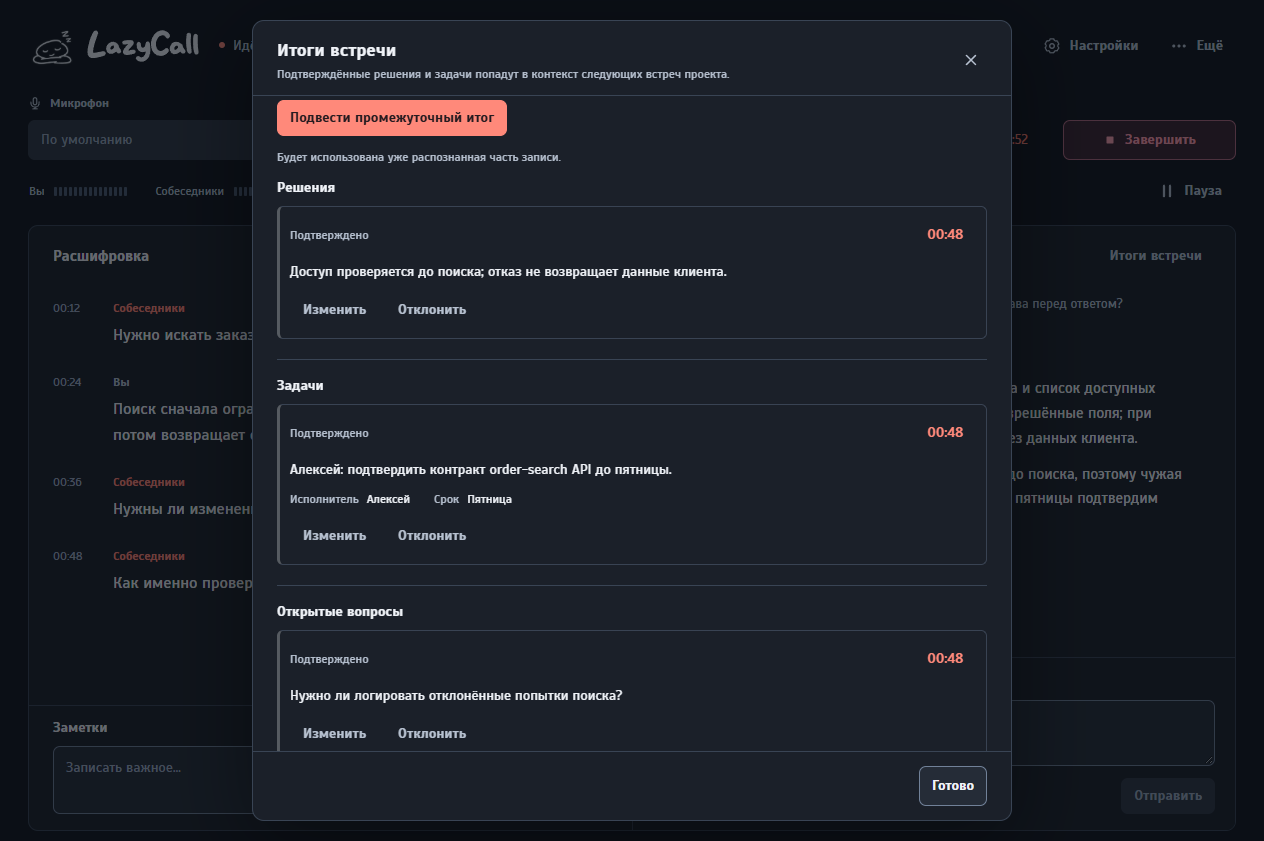
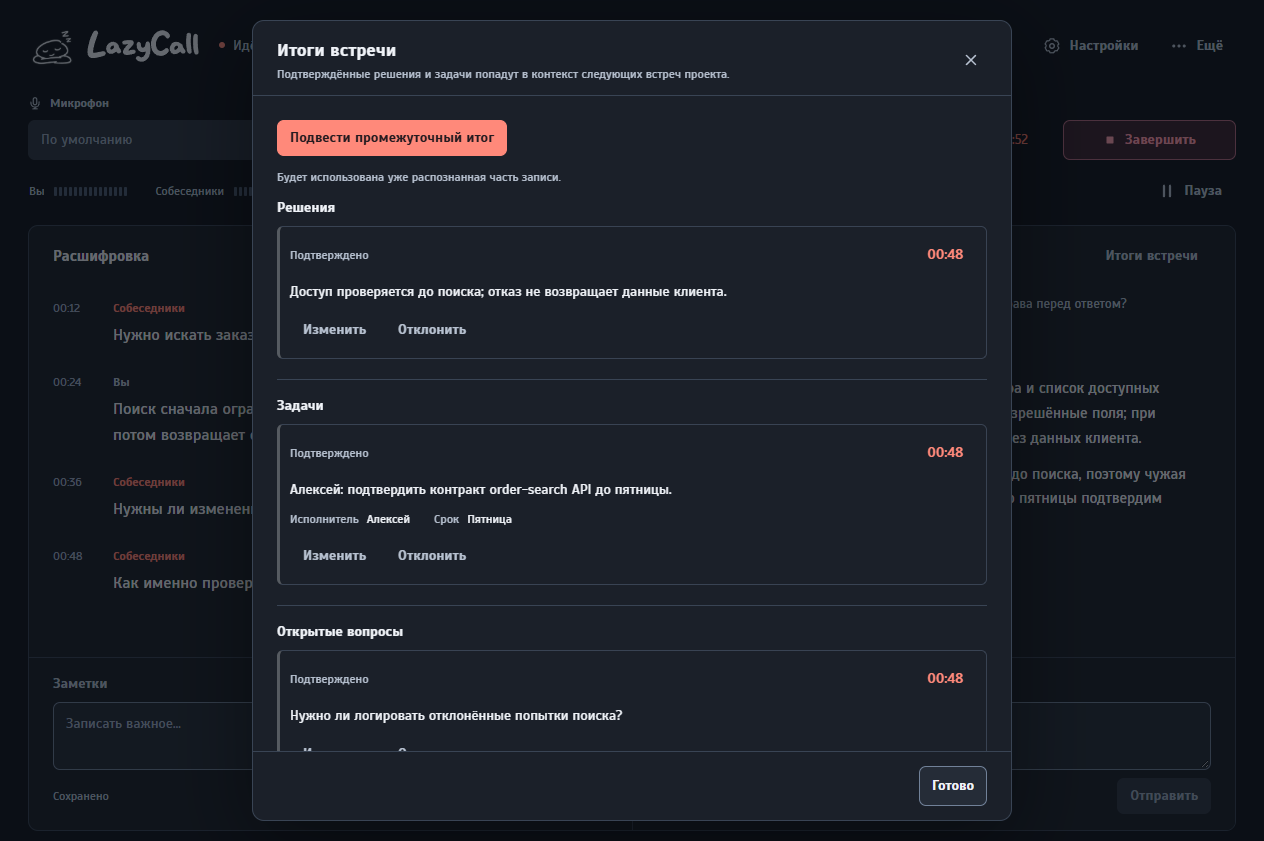
fix: align workspace forms and dialog scrolling for 0.3.6

diff --git a/src/renderer/Assistant.tsx b/src/renderer/Assistant.tsx
@@ -59,6 +59,8 @@ export function Assistant({ status, messages, hasSession, hasTranscript, phase, 
   };
   return <section className="assistant-pane" aria-label={t("assistant")}>
     <div className="pane-header"><h2>{t("assistant")}</h2>{phase !== "done" && <Button size="compact" variant="quiet" onClick={onOpenResults} title={t("Решения, задачи и открытые вопросы")}>{t("meetingResults")}</Button>}</div>
+    <div className="assistant-history">
+      {!ready && messages.length > 0 && <p className="composer-status" role="status">{t("Помощник не подключён. ")}<Button variant="text" size="compact" loading={connecting} disabled={status.state === "connecting"} onClick={() => void connect()}>{t("signInChatGPT")}</Button></p>}
     {ready && phase !== "done" && <div className="assistant-toolbar"><Button variant="primary" size="compact" disabled={!replyTarget || busy} onClick={() => replyTarget && void ask("answer", "Предложи ответ на выбранную реплику собеседника.", replyTarget.id)} title={replyTarget ? t("Короткий ответ на последнюю реплику собеседника") : t("Дождитесь реплики собеседника")}>{t("suggestAnswer")}</Button>{replyTarget && <div className="assistant-reply-target" title={replyTarget.text}><time>{timestamp(replyTarget.startMs)}</time><span className="assistant-reply-excerpt">{replyTarget.text}</span></div>}</div>}
     <div className="assistant-messages" ref={area} onScroll={onScroll} aria-live="polite" aria-relevant="additions text"><div ref={body}>
       {messages.length === 0 && <div className="assistant-empty">
@@ -77,6 +79,7 @@ export function Assistant({ status, messages, hasSession, hasTranscript, phase, 
       </article>)}</div>
     </div>
     {awayFromBottom && messages.length > 0 && <div className="assistant-follow"><Button variant="text" size="compact" icon="down" onClick={followLatest}>{t("К последнему ответу")}</Button></div>}
+    </div>
     <form className="assistant-composer" onSubmit={event => { event.preventDefault(); void ask(webSearch ? "research" : "answer"); }}>
       <label className="composer-label" htmlFor="assistant-question">{phase === "done" ? t("Вопрос по записи") : t("askQuestion")}</label><TextArea id="assistant-question" placeholder={phase === "done" ? t("Например: что уточнить по итогам?") : t("Например: что уточнить про сроки?")} value={prompt} maxLength={12000} rows={2} disabled={!ready || busy} onChange={event => setPrompt(event.target.value)} onKeyDown={event => {
         if (event.key === "Enter" && !event.shiftKey && !event.repeat && !event.nativeEvent.isComposing && (enterToSend || event.ctrlKey || event.metaKey)) { event.preventDefault(); void ask(webSearch ? "research" : "answer"); }
@@ -84,7 +87,6 @@ export function Assistant({ status, messages, hasSession, hasTranscript, phase, 
       <div className="composer-actions"><Checkbox checked={webSearch} disabled={busy} onChange={event => setWebSearch(event.target.checked)}>{t("searchWeb")}</Checkbox>
         {busy ? <Button size="compact" icon="stop" disabled={!cancelId} onClick={() => void window.callme.agentCancel(cancelId).catch(e => onError(String(e)))}>{t("stop")}</Button> : <Button type="submit" variant="primary" size="compact" disabled={!ready || !prompt.trim()} title={enterToSend ? "Enter" : "Ctrl+Enter"}>{phase === "done" ? t("Спросить по записи") : t("send")}</Button>}
       </div>
-      {!ready && messages.length > 0 && <p className="composer-status" role="status">{t("Помощник не подключён. ")}<Button variant="text" size="compact" loading={connecting} disabled={status.state === "connecting"} onClick={() => void connect()}>{t("signInChatGPT")}</Button></p>}
     </form>
   </section>;
 }

diff --git a/src/renderer/App.tsx b/src/renderer/App.tsx
@@ -348,6 +348,7 @@ export function App() {
     <main className="workspace">
       <section className="conversation" aria-label={t("Расшифровка встречи")}>
         <div className="pane-header"><h2>{t("Расшифровка")}</h2><Materials source={source} preview={preview} frameAt={frameAt} phase={phase} epoch={sessionEpoch} project={workspace.project} onSnapshot={() => { if (!capture.current?.snapshot()) report(t("Кадр пока недоступен. Повторите через секунду."), "info"); }} onChooseWindow={phase === "idle" ? () => window.setTimeout(() => document.getElementById("meeting-window")?.focus(), 0) : undefined} /></div>
+        <div className="conversation-history">
         <div className="transcript" ref={transcript} onScroll={onTranscriptScroll}>
           <div ref={transcriptBody}>
           {lines.length === 0 ? <div className="empty-transcript">
@@ -362,7 +363,8 @@ export function App() {
           </div>
         </div>
         {awayFromBottom && lines.length > 0 && <div className="conversation-footer"><Button variant="text" icon="down" onClick={followLatest}>{t("К последней реплике")}</Button></div>}
-        <section className="quick-notes" aria-label={t("Заметки встречи")}><div className="quick-notes-heading"><h2>{t("Заметки")}</h2><span className={"secondary-label note-state " + noteState}>{noteLabel}</span></div><TextArea aria-label={t("Заметки")} placeholder={t("Записать важное…")} rows={2} value={note} onChange={event => setNote(event.target.value)} maxLength={100000} spellCheck /></section>
+        </div>
+        <section className="quick-notes" aria-label={t("Заметки встречи")}><div className="quick-notes-heading"><h2>{t("Заметки")}</h2></div><TextArea aria-label={t("Заметки")} placeholder={t("Записать важное…")} rows={2} value={note} onChange={event => setNote(event.target.value)} maxLength={100000} spellCheck /><div className="quick-notes-actions"><span className={"secondary-label note-state " + noteState}>{noteLabel}</span></div></section>
       </section>
 
       <Assistant status={agent} messages={assistantMessages} hasSession={hasSession} hasTranscript={lines.length > 0} phase={phase} enterToSend={preferences.enterToSend} replyTarget={[...lines].reverse().find(line => line.source === "remote")} sessionEpoch={sessionEpoch} note={note} onPrepared={id => { sessionId.current = id; noteSaved.current = note; setHasSession(true); }} onAddNote={text => { const combined = note.trim() ? note.trimEnd() + "\n\n" + text : text; if (combined.length > 100000) { report("В заметках недостаточно места для этого ответа."); return; } setNote(combined); report("Добавлено в заметки.", "info"); }} onError={report} onOpenResults={() => setResultsOpen(old => old + 1)} />

diff --git a/src/renderer/workspace-layout.css b/src/renderer/workspace-layout.css
@@ -1,0 +1,82 @@
+/* Both panes share content and composer tracks; text and controls set their size. */
+.workspace {
+  --workspace-inset: 24px;
+  --workspace-field-height: 68px;
+  grid-template-rows: auto minmax(0, 1fr) auto minmax(var(--workspace-field-height), auto) auto;
+}
+.workspace > .conversation,
+.workspace > .assistant-pane {
+  display: grid;
+  grid-row: 1 / -1;
+  grid-template-columns: minmax(0, 1fr);
+  grid-template-rows: subgrid;
+}
+.workspace > .conversation { grid-column: 1; }
+.workspace > .assistant-pane { grid-column: 2; }
+.workspace .pane-header { grid-row: 1; padding-inline: var(--workspace-inset); }
+.conversation-history,
+.assistant-history {
+  grid-row: 2;
+  display: flex;
+  flex-direction: column;
+  min-width: 0;
+  min-height: 0;
+  overflow: hidden;
+}
+.workspace .transcript,
+.workspace .assistant-messages,
+.workspace .assistant-toolbar,
+.workspace .conversation-footer { padding-inline: var(--workspace-inset); }
+.workspace .quick-notes,
+.workspace .assistant-composer {
+  grid-row: 3 / -1;
+  display: grid;
+  grid-template-columns: minmax(0, 1fr);
+  grid-template-rows: subgrid;
+  row-gap: 8px;
+  padding: 16px var(--workspace-inset);
+  margin: 0;
+  min-width: 0;
+}
+.workspace .quick-notes-heading,
+.workspace .composer-label {
+  grid-row: 1;
+  margin: 0;
+  align-self: start;
+}
+.workspace .quick-notes-heading h2,
+.workspace .composer-label {
+  color: var(--secondary);
+  font-size: 14px;
+  line-height: 20px;
+  font-weight: var(--weight-medium);
+}
+.workspace .quick-notes > .ui-textarea,
+.workspace .assistant-composer > .ui-textarea {
+  grid-row: 2;
+  min-height: var(--workspace-field-height);
+  height: 100%;
+  max-height: 160px;
+  margin: 0;
+}
+.workspace .quick-notes-actions,
+.workspace .composer-actions {
+  grid-row: 3;
+  display: flex;
+  align-items: center;
+  min-height: 36px;
+  margin: 0;
+}
+.workspace .composer-status { margin: 0; padding: 0 var(--workspace-inset) 12px; }
+.workspace .assistant-follow { padding-inline: var(--workspace-inset); }
+@media (max-width: 1080px) {
+  .workspace { --workspace-inset: 16px; }
+  .workspace .quick-notes,
+  .workspace .assistant-composer { padding-block: 12px; }
+}
+@media (max-height: 650px) {
+  .workspace { --workspace-field-height: 56px; }
+  .workspace .pane-header { min-height: 48px; }
+  .workspace .quick-notes,
+  .workspace .assistant-composer { padding-block: 12px; }
+}

diff --git a/src/renderer/dialog-layout.css b/src/renderer/dialog-layout.css
@@ -1,0 +1,21 @@
+/* Keep the title and actions visible while long dialog content scrolls. */
+.meetings-dialog { overflow: hidden; }
+.meetings-dialog[open] { display: flex; flex-direction: column; }
+.meetings-dialog .settings-heading,
+.projects-dialog .settings-actions { flex-shrink: 0; }
+.meetings-dialog .meetings-list {
+  min-height: 0;
+  overflow-y: auto;
+}
+.projects-body,
+.results-body,
+.meetings-dialog .meetings-list,
+.transcript-edit-body { padding: 24px; overscroll-behavior: contain; }
+.projects-body .field:first-child { margin-top: 0; }
+.results-actions { flex-wrap: wrap; gap: 8px; }
+@media (max-width: 700px) {
+  .projects-body,
+  .results-body,
+  .meetings-dialog .meetings-list,
+  .transcript-edit-body { padding: 16px; }
+}

diff --git a/src/renderer/main.tsx b/src/renderer/main.tsx
@@ -8,6 +8,8 @@ import "@fontsource/scada/latin-700.css";
 import "./style.css";
 import "./interaction.css";
 import "./theme.css";
+import "./workspace-layout.css";
+import "./dialog-layout.css";
 import { applyTheme, cachedTheme } from "./theme";
 import { I18nProvider } from "./i18n";
 applyTheme(cachedTheme());

diff --git a/src/renderer/style.css b/src/renderer/style.css
@@ -40,7 +40,7 @@ button, select { -webkit-user-select: none; user-select: none; }
 .app {
   max-width: 1680px;
   height: 100dvh;
-  min-height: 620px;
+  min-height: min(620px, 100dvh);
   margin: 0 auto;
   padding: 22px 28px 10px;
   display: flex;

diff --git a/README.ru.md b/README.ru.md
@@ -3,7 +3,7 @@
 [![CI](https://github.com/IgorMonkey/LazyCall/actions/workflows/ci.yml/badge.svg)](https://github.com/IgorMonkey/LazyCall/actions/workflows/ci.yml)
 [![Лицензия](https://img.shields.io/github/license/IgorMonkey/LazyCall?label=%D0%BB%D0%B8%D1%86%D0%B5%D0%BD%D0%B7%D0%B8%D1%8F)](LICENSE)
 ![Платформа](https://img.shields.io/badge/%D0%BF%D0%BB%D0%B0%D1%82%D1%84%D0%BE%D1%80%D0%BC%D0%B0-Windows%20x64-0078D6)
-![Релиз](https://img.shields.io/badge/%D1%80%D0%B5%D0%BB%D0%B8%D0%B7-0.3.5-ff897a)
+![Релиз](https://img.shields.io/badge/%D1%80%D0%B5%D0%BB%D0%B8%D0%B7-0.3.6-ff897a)
 
 [**Скачать для Windows**](https://github.com/IgorMonkey/LazyCall/releases/latest)
 
@@ -24,13 +24,13 @@ LazyCall помогает восстановить контекст проект
 
 > **Экспериментальный ранний релиз для Windows x64.** Приложение ещё сырое: возможны баги, задержки и неудачные подсказки. Тестируйте, приносите воспроизводимые ошибки и присылайте PR — проект открыт для участия.
 
-## Скачать `0.3.5`
+## Скачать `0.3.6`
 
-Assets лежат в [GitHub release](https://github.com/IgorMonkey/LazyCall/releases/tag/v0.3.5):
+Assets лежат в [GitHub release](https://github.com/IgorMonkey/LazyCall/releases/tag/v0.3.6):
 
-- [`LazyCall-Web-Setup-0.3.5.exe`](https://github.com/IgorMonkey/LazyCall/releases/download/v0.3.5/LazyCall-Web-Setup-0.3.5.exe) — около 820 КиБ; при установке скачивает около 918 МиБ.
-- [`LazyCall-Setup-0.3.5.exe`](https://github.com/IgorMonkey/LazyCall/releases/download/v0.3.5/LazyCall-Setup-0.3.5.exe) — около 919 МиБ; содержит офлайн-payload.
-- [`SHA256SUMS.txt`](https://github.com/IgorMonkey/LazyCall/releases/download/v0.3.5/SHA256SUMS.txt) — проверьте скачанный файл.
+- [`LazyCall-Web-Setup-0.3.6.exe`](https://github.com/IgorMonkey/LazyCall/releases/download/v0.3.6/LazyCall-Web-Setup-0.3.6.exe) — около 820 КиБ; при установке скачивает около 918 МиБ.
+- [`LazyCall-Setup-0.3.6.exe`](https://github.com/IgorMonkey/LazyCall/releases/download/v0.3.6/LazyCall-Setup-0.3.6.exe) — около 919 МиБ; содержит офлайн-payload.
+- [`SHA256SUMS.txt`](https://github.com/IgorMonkey/LazyCall/releases/download/v0.3.6/SHA256SUMS.txt) — проверьте скачанный файл.
 
 Это неподписанные ранние установщики, поэтому Windows может показать предупреждение. Локально проверены установка, повтор после повреждённой загрузки и удаление; GitHub update feed пока не прошёл end-to-end проверку. Сверяйте checksums и используйте этот релиз только для тестирования.
 

diff --git a/docs/UI_GUIDELINES.ru.md b/docs/UI_GUIDELINES.ru.md
@@ -1,0 +1,29 @@
+# Компоновка интерфейса
+
+[English](UI_GUIDELINES.md)
+
+В LazyCall графитовая палитра с коралловым акцентом для действий. Русская и
+английская версии используют одну сетку, типографику и размеры элементов;
+переведённый текст может переноситься.
+
+- Связанные элементы располагаем рядом: 8px внутри небольшой группы, 16px между
+  связанными группами, 24px для обычных отступов содержимого диалогов. В компактной
+  компоновке отступы уменьшаются, порядок чтения сохраняется.
+- Основные панели делят строки сетки: заголовки, истории, подписи полей, поля и
+  действия. Истории прокручиваются независимо. Длинный ответ, кнопка перехода к
+  последнему сообщению и уведомление о подключении не сдвигают поля ввода.
+- Заголовок и нижние действия диалога остаются видимыми при прокрутке содержимого.
+  Не вкладываем диалоги друг в друга и не показываем модальное окно ради статуса.
+- Сохраняем видимый фокус клавиатуры, понятные подписи и выделение текста.
+  Для публичных скриншотов используем вымышленные данные.
+
+Это решения проекта на основе рекомендаций [Fluent по компоновке](https://fluent2.microsoft.design/layout),
+[Fluent по диалогам](https://fluent2.microsoft.design/components/web/react/core/dialog/usage),
+а также NN/g о [близости элементов](https://www.nngroup.com/articles/gestalt-proximity/)
+и [визуальной согласованности](https://www.nngroup.com/articles/why-does-design-look-good/).
+Они не означают формальную сертификацию и не заменяют проверку с пользователями.
+
+`node scripts/check-assistant-ui.cjs --spacing` проверяет геометрию элементов и
+основных панелей, `--workspace-review` снимает адаптивные состояния, а
+`--transcript-follow` проверяет прокрутку. Галерея также охватывает настройки,
+материалы, проекты, итоги, онбординг и мини-окно.

diff --git a/README.md b/README.md
@@ -3,7 +3,7 @@
 [![CI](https://github.com/IgorMonkey/LazyCall/actions/workflows/ci.yml/badge.svg)](https://github.com/IgorMonkey/LazyCall/actions/workflows/ci.yml)
 [![License](https://img.shields.io/github/license/IgorMonkey/LazyCall?label=license)](LICENSE)
 ![Platform](https://img.shields.io/badge/platform-Windows%20x64-0078D6)
-![Release](https://img.shields.io/badge/release-0.3.5-ff897a)
+![Release](https://img.shields.io/badge/release-0.3.6-ff897a)
 
 [**Download for Windows**](https://github.com/IgorMonkey/LazyCall/releases/latest)
 
@@ -22,13 +22,13 @@ LazyCall helps you recover the context of an AI-built project during a technical
 
 > **Experimental early release for Windows x64.** Expect bugs, delays, and suggestions that miss the point. Try it, report reproducible problems, and send PRs — contributions are welcome.
 
-## Download `0.3.5`
+## Download `0.3.6`
 
-Download assets from the [GitHub release](https://github.com/IgorMonkey/LazyCall/releases/tag/v0.3.5):
+Download assets from the [GitHub release](https://github.com/IgorMonkey/LazyCall/releases/tag/v0.3.6):
 
-- [`LazyCall-Web-Setup-0.3.5.exe`](https://github.com/IgorMonkey/LazyCall/releases/download/v0.3.5/LazyCall-Web-Setup-0.3.5.exe) — about 820 KiB; downloads about 918 MiB during installation.
-- [`LazyCall-Setup-0.3.5.exe`](https://github.com/IgorMonkey/LazyCall/releases/download/v0.3.5/LazyCall-Setup-0.3.5.exe) — about 919 MiB; includes the offline payload.
-- [`SHA256SUMS.txt`](https://github.com/IgorMonkey/LazyCall/releases/download/v0.3.5/SHA256SUMS.txt) — verify the file you download.
+- [`LazyCall-Web-Setup-0.3.6.exe`](https://github.com/IgorMonkey/LazyCall/releases/download/v0.3.6/LazyCall-Web-Setup-0.3.6.exe) — about 820 KiB; downloads about 918 MiB during installation.
+- [`LazyCall-Setup-0.3.6.exe`](https://github.com/IgorMonkey/LazyCall/releases/download/v0.3.6/LazyCall-Setup-0.3.6.exe) — about 919 MiB; includes the offline payload.
+- [`SHA256SUMS.txt`](https://github.com/IgorMonkey/LazyCall/releases/download/v0.3.6/SHA256SUMS.txt) — verify the file you download.
 
 The installers are unsigned early-release builds. Windows may show a warning. Local installer checks covered install, corrupted-download retry, and uninstall; the GitHub update feed has not yet been validated end to end. Review the checksums and use this release only for testing.
 

diff --git a/docs/UI_GUIDELINES.md b/docs/UI_GUIDELINES.md
@@ -1,0 +1,28 @@
+# Interface layout
+
+[Русский](UI_GUIDELINES.ru.md)
+
+LazyCall uses a graphite palette with a coral action accent. Russian and English
+use the same layout, typography and control sizes; translated content can wrap.
+
+- Related controls stay together. Use 8px within a small group, 16px between
+  related groups and 24px for regular dialog content insets. Compact layouts use
+  smaller insets without changing the reading order.
+- The main panes share grid rows for their headings, histories, field labels,
+  text areas and actions. Each history scrolls independently. A longer answer,
+  follow button or reconnection notice must not move the input controls.
+- Dialog titles and footer actions stay visible while body content scrolls.
+  Avoid nesting dialogs or adding a modal for a passive status update.
+- Preserve visible keyboard focus, meaningful labels and native text selection.
+  Use synthetic content when producing public screenshots.
+
+These are project decisions informed by [Fluent layout guidance](https://fluent2.microsoft.design/layout),
+[Fluent dialog behavior](https://fluent2.microsoft.design/components/web/react/core/dialog/usage),
+and NN/g on [proximity](https://www.nngroup.com/articles/gestalt-proximity/)
+and [visual consistency](https://www.nngroup.com/articles/why-does-design-look-good/).
+They are not a claim of formal compliance or a substitute for user testing.
+
+Run `node scripts/check-assistant-ui.cjs --spacing` for control and paired-pane
+geometry, `--workspace-review` for responsive screenshots and state checks, and
+`--transcript-follow` for independent scrolling behavior. The screenshot gallery
+also covers settings, materials, projects, outcomes, onboarding and the compact window.

diff --git a/docs/RELEASING.md b/docs/RELEASING.md
@@ -15,11 +15,11 @@ The **Prepare release review artifacts** workflow accepts the tag and its exact 
 
 ## Publish a draft
 
-Create a draft GitHub Release. A plain version such as `0.3.5` is a regular release; use the prerelease flag only for a deliberately suffixed version. Upload these canonical filenames for `0.3.5`:
+Create a draft GitHub Release. A plain version such as `0.3.6` is a regular release; use the prerelease flag only for a deliberately suffixed version. Upload these canonical filenames for `0.3.6`:
 
-- `LazyCall-Web-Setup-0.3.5.exe` — small bootstrap.
-- `LazyCall-Setup-0.3.5.exe` — full installer.
-- `lazycall-0.3.5-x64.nsis.7z` — bootstrap payload.
+- `LazyCall-Web-Setup-0.3.6.exe` — small bootstrap.
+- `LazyCall-Setup-0.3.6.exe` — full installer.
+- `lazycall-0.3.6-x64.nsis.7z` — bootstrap payload.
 - `latest.yml` — update metadata for the full installer.
 - `SHA256SUMS.txt` — hashes using those exact asset names.
 
